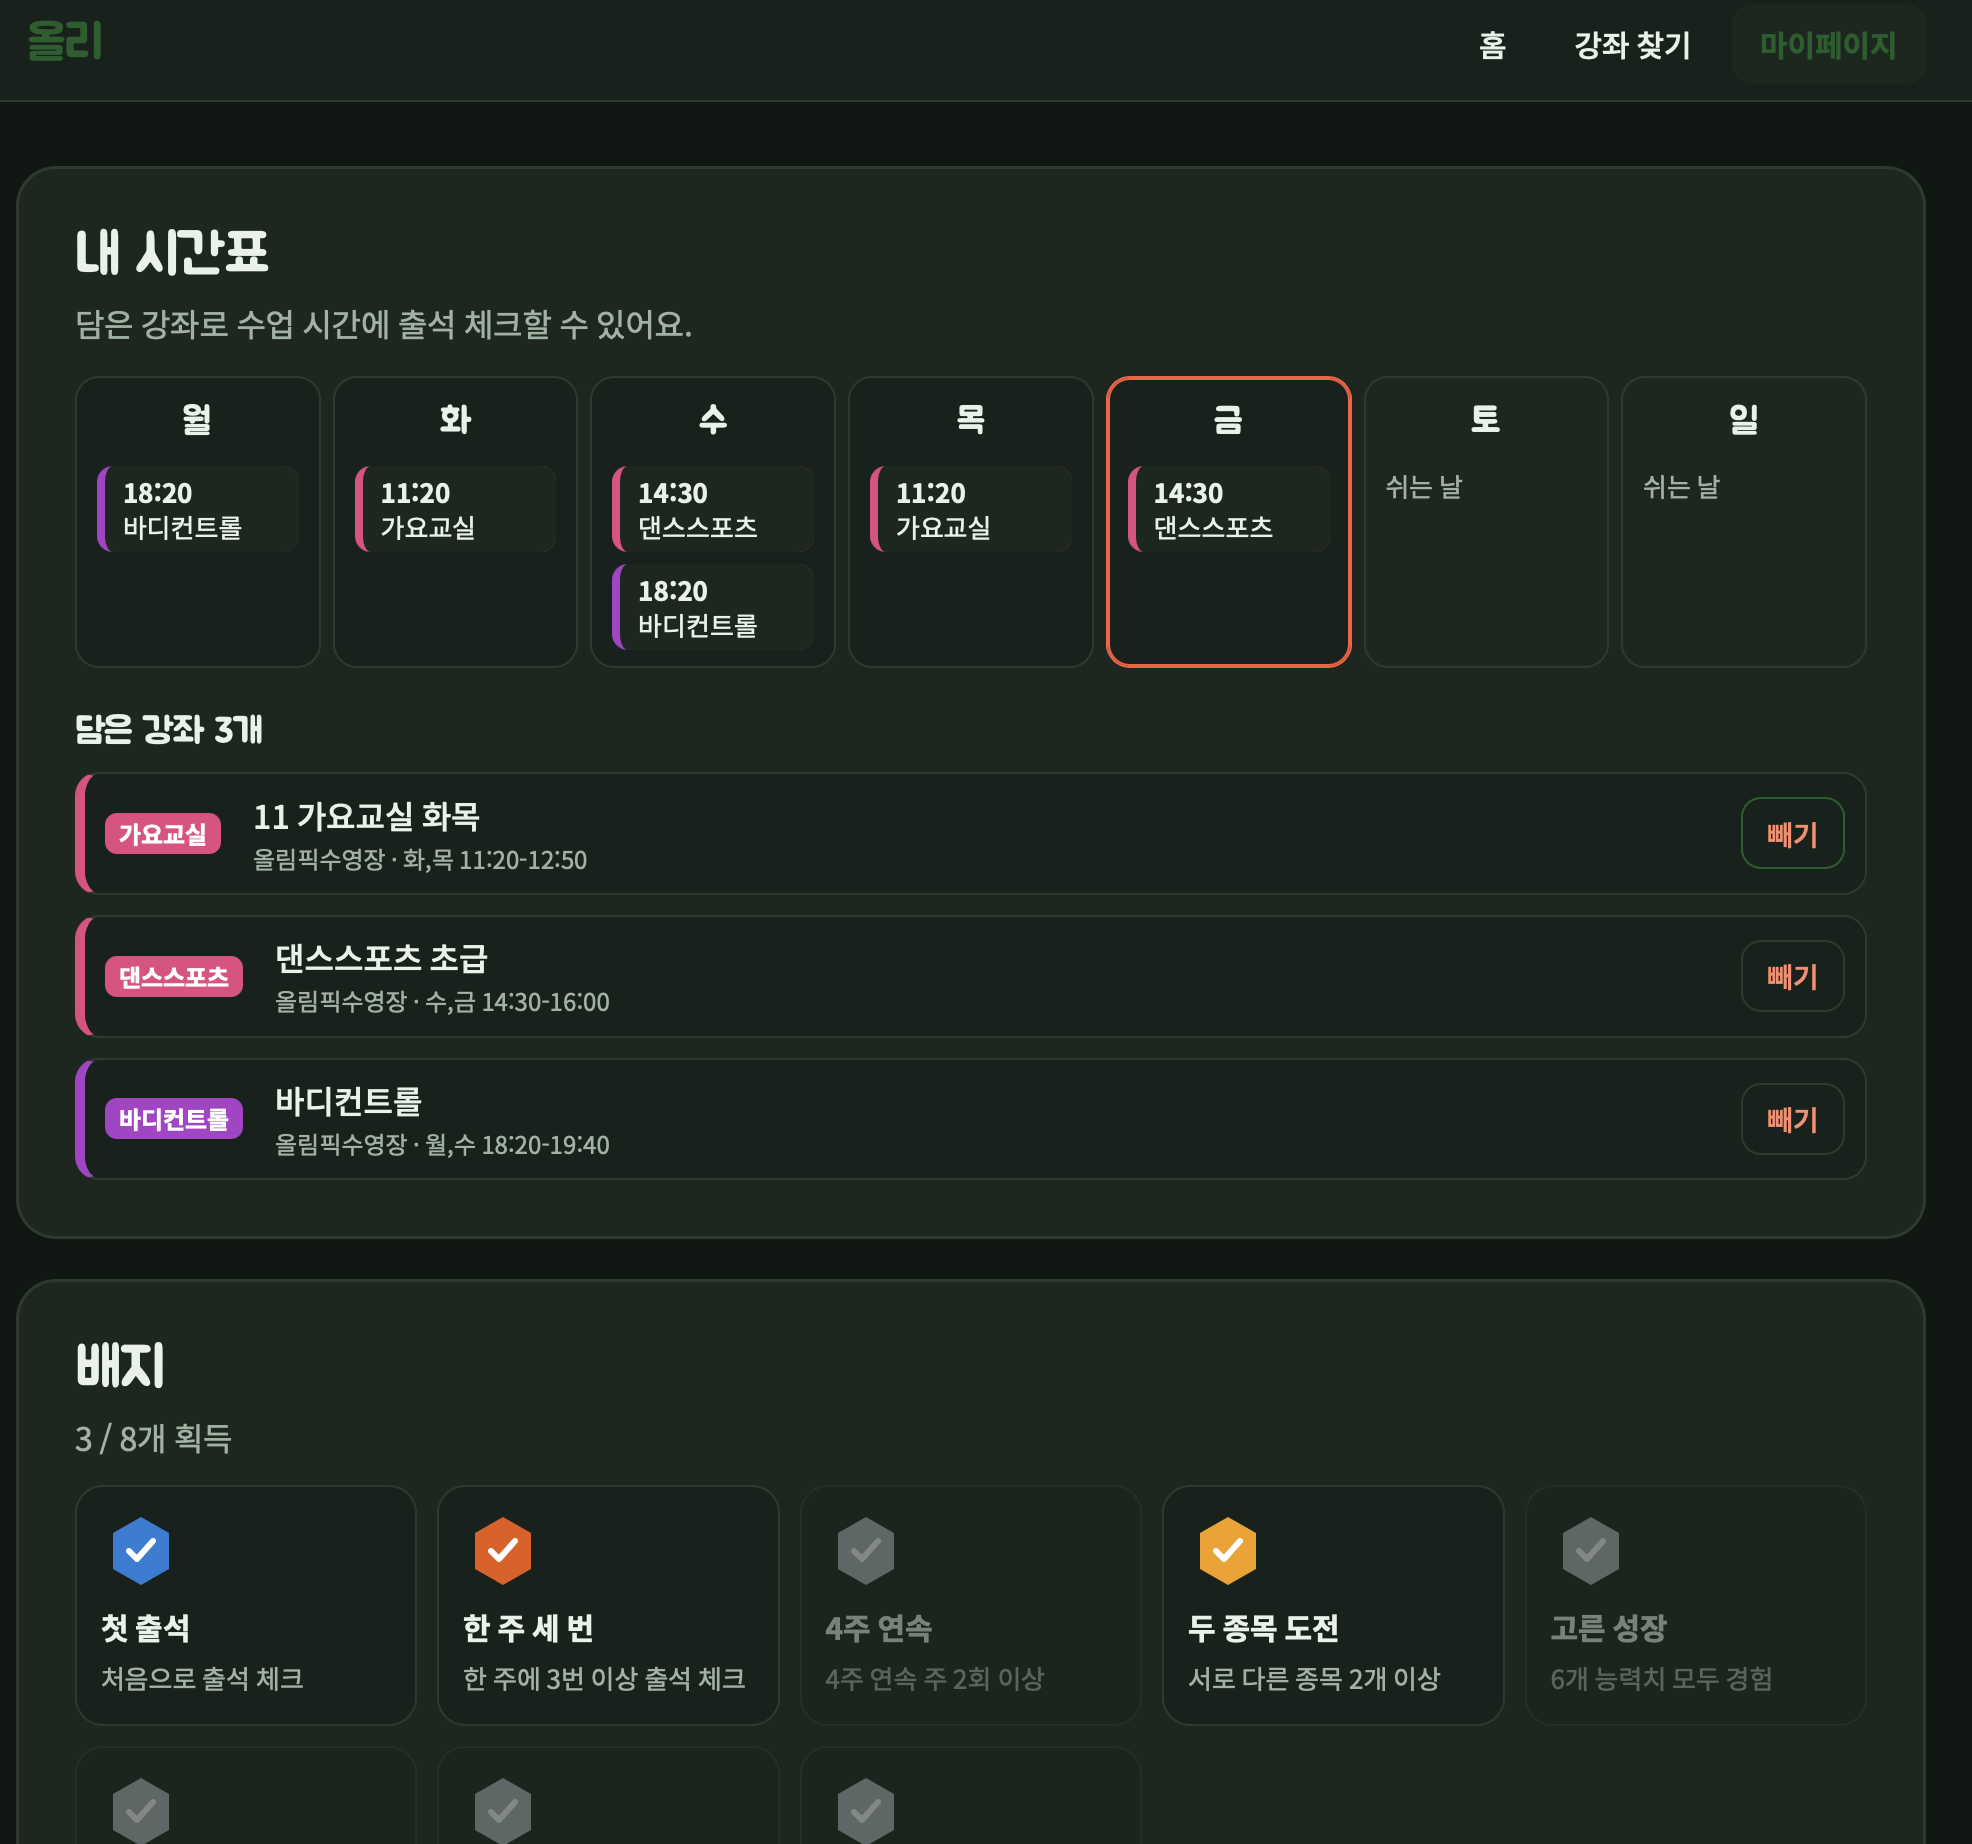
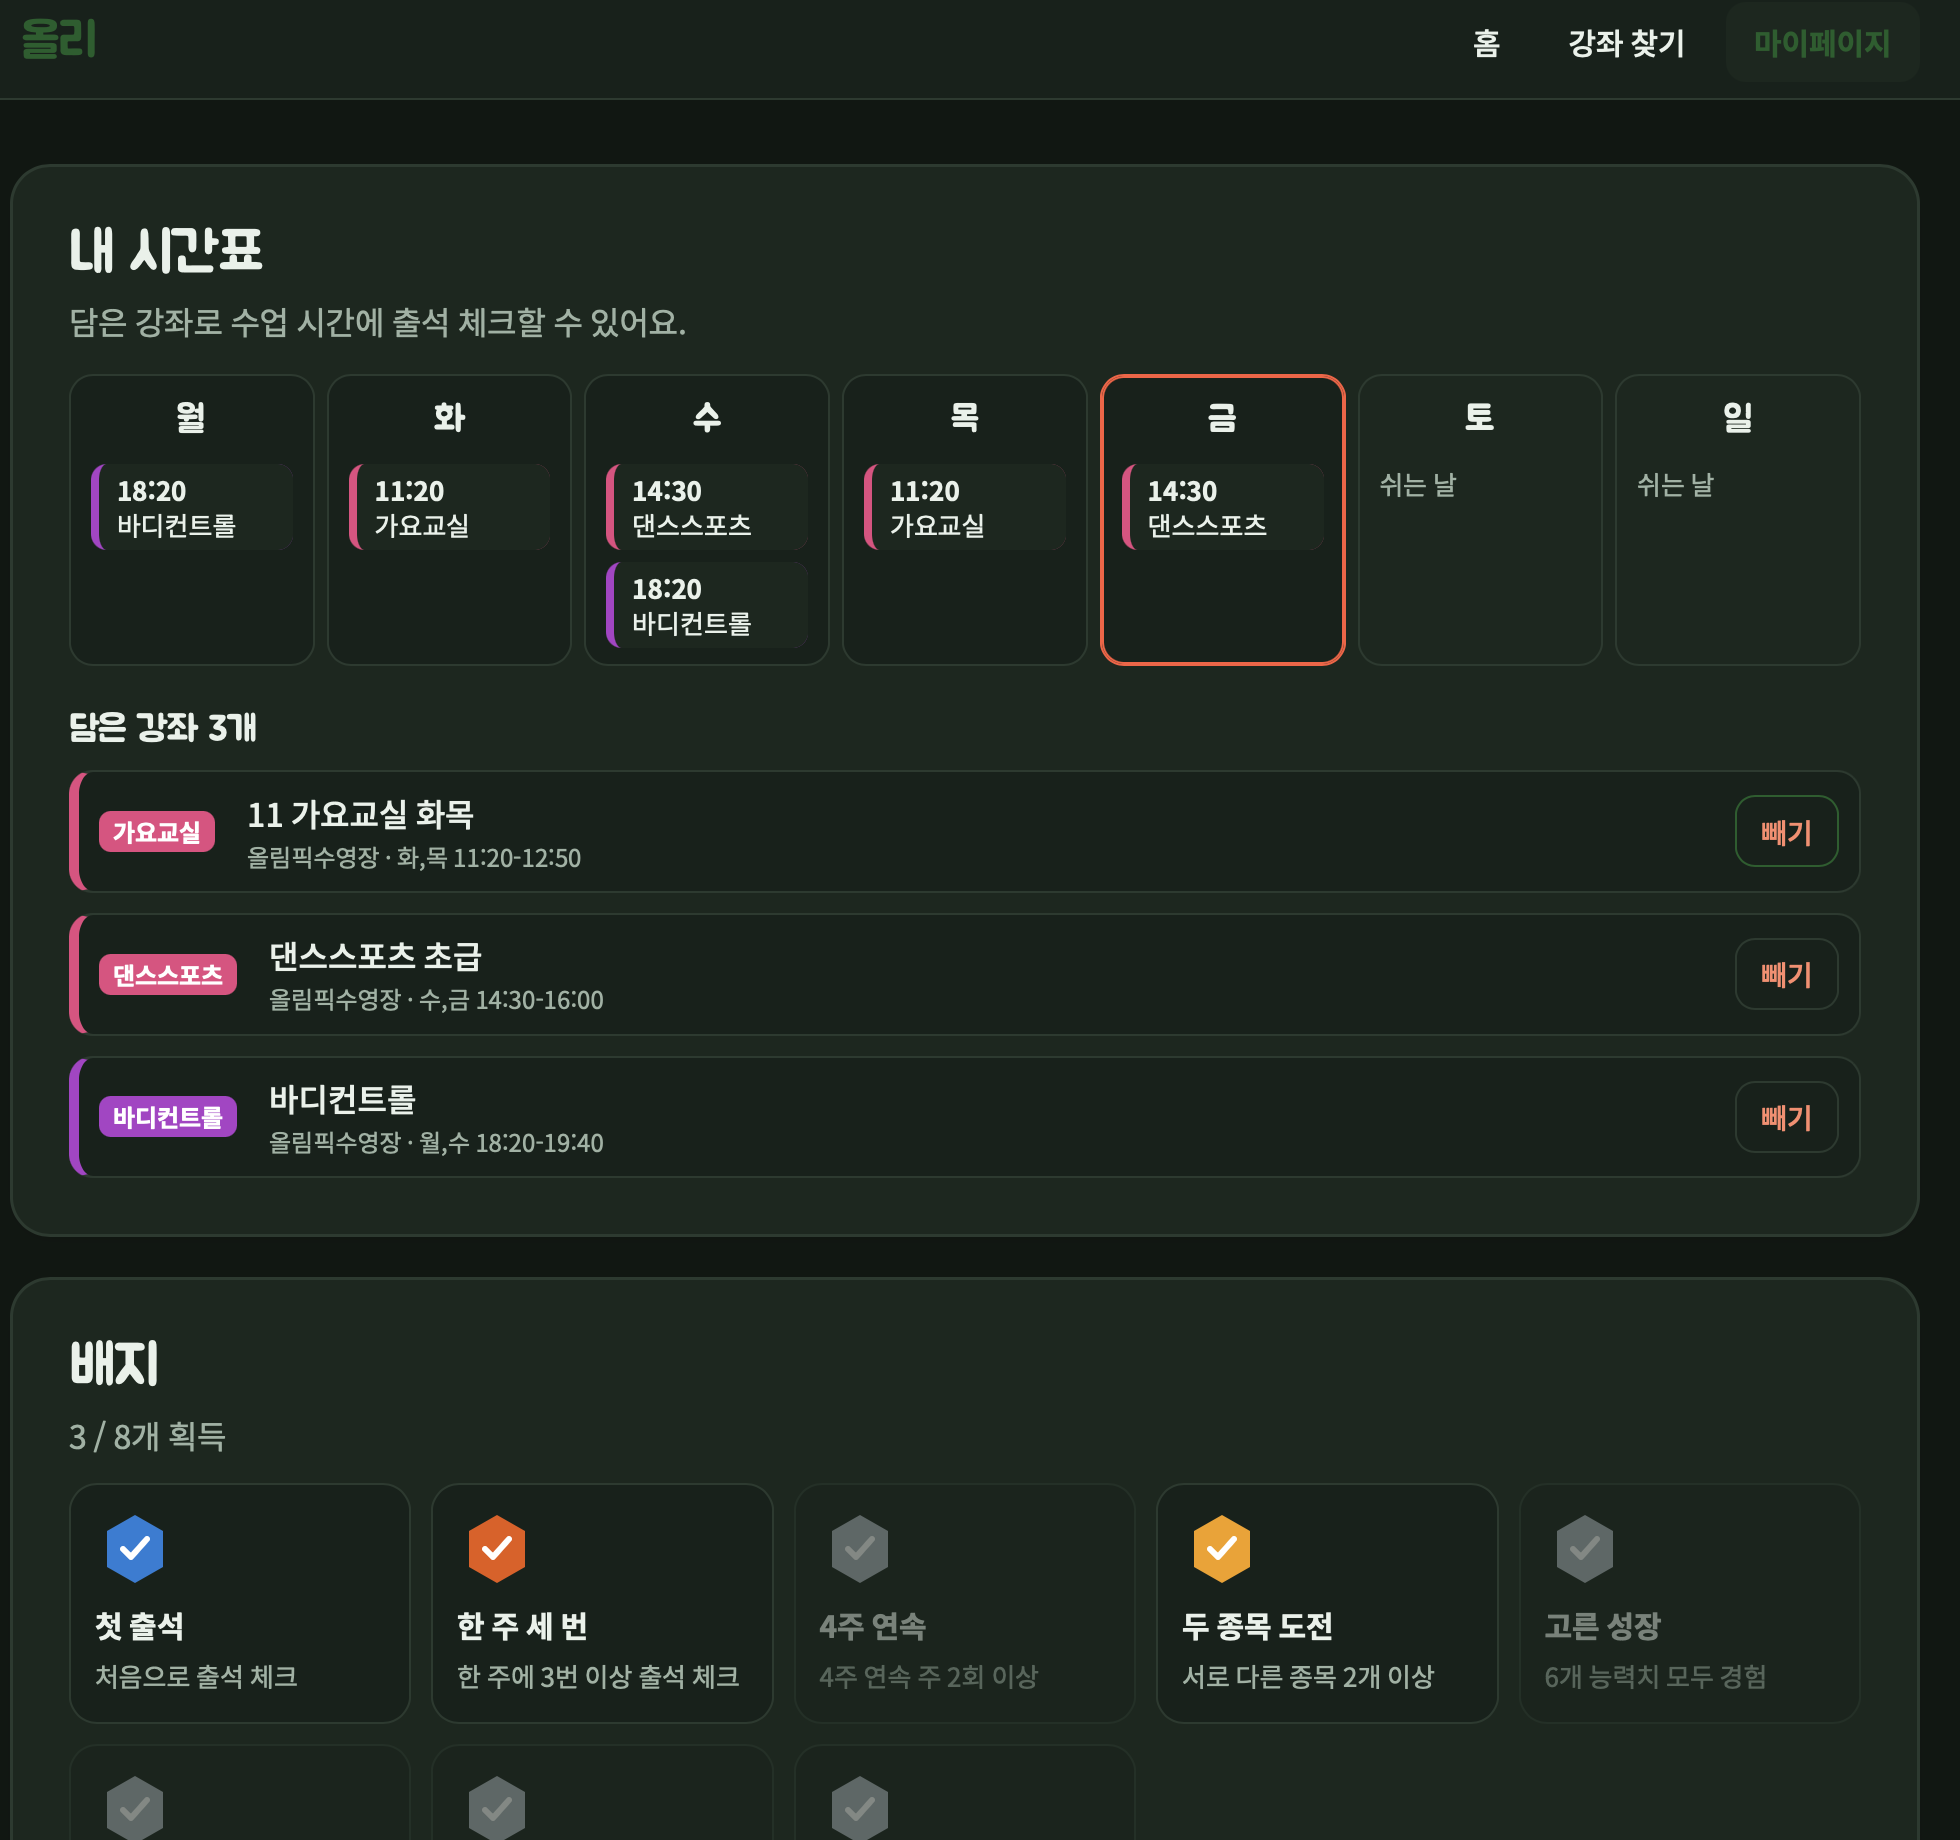
docs: README 화면 캡처에 '홈' 제목 추가, 강좌 찾기·마이페이지 캡처 크기 통일

diff --git a/README.md b/README.md
@@ -9,11 +9,15 @@
 - 2026년도 한국체육산업개발(주) 공공데이터 활용 경진대회 출품작
 - 한국체육산업개발(주)의 공식 서비스가 아닙니다.
 
-![홈: 캐릭터 올리와 능력치, 오늘 수업 출석 체크, 내 센터 소식](docs/screen-home.png)
-
-| 강좌 찾기 | 마이페이지 |
-|---|---|
-| ![강좌 찾기: 센터 탭, 검색, 필터, 강좌 목록](docs/screen-search.png) | ![마이페이지: 내 시간표와 담은 강좌, 배지](docs/screen-mypage.png) |
+<table>
+  <tr><th colspan="2">홈</th></tr>
+  <tr><td colspan="2"><img src="docs/screen-home.png" width="100%" alt="홈: 캐릭터 올리와 능력치, 오늘 수업 출석 체크, 내 센터 소식"></td></tr>
+  <tr><th width="50%">강좌 찾기</th><th width="50%">마이페이지</th></tr>
+  <tr>
+    <td width="50%"><img src="docs/screen-search.png" width="100%" alt="강좌 찾기: 센터 탭, 검색, 필터, 강좌 목록"></td>
+    <td width="50%"><img src="docs/screen-mypage.png" width="100%" alt="마이페이지: 내 시간표와 담은 강좌, 배지"></td>
+  </tr>
+</table>
 
 ---
 
